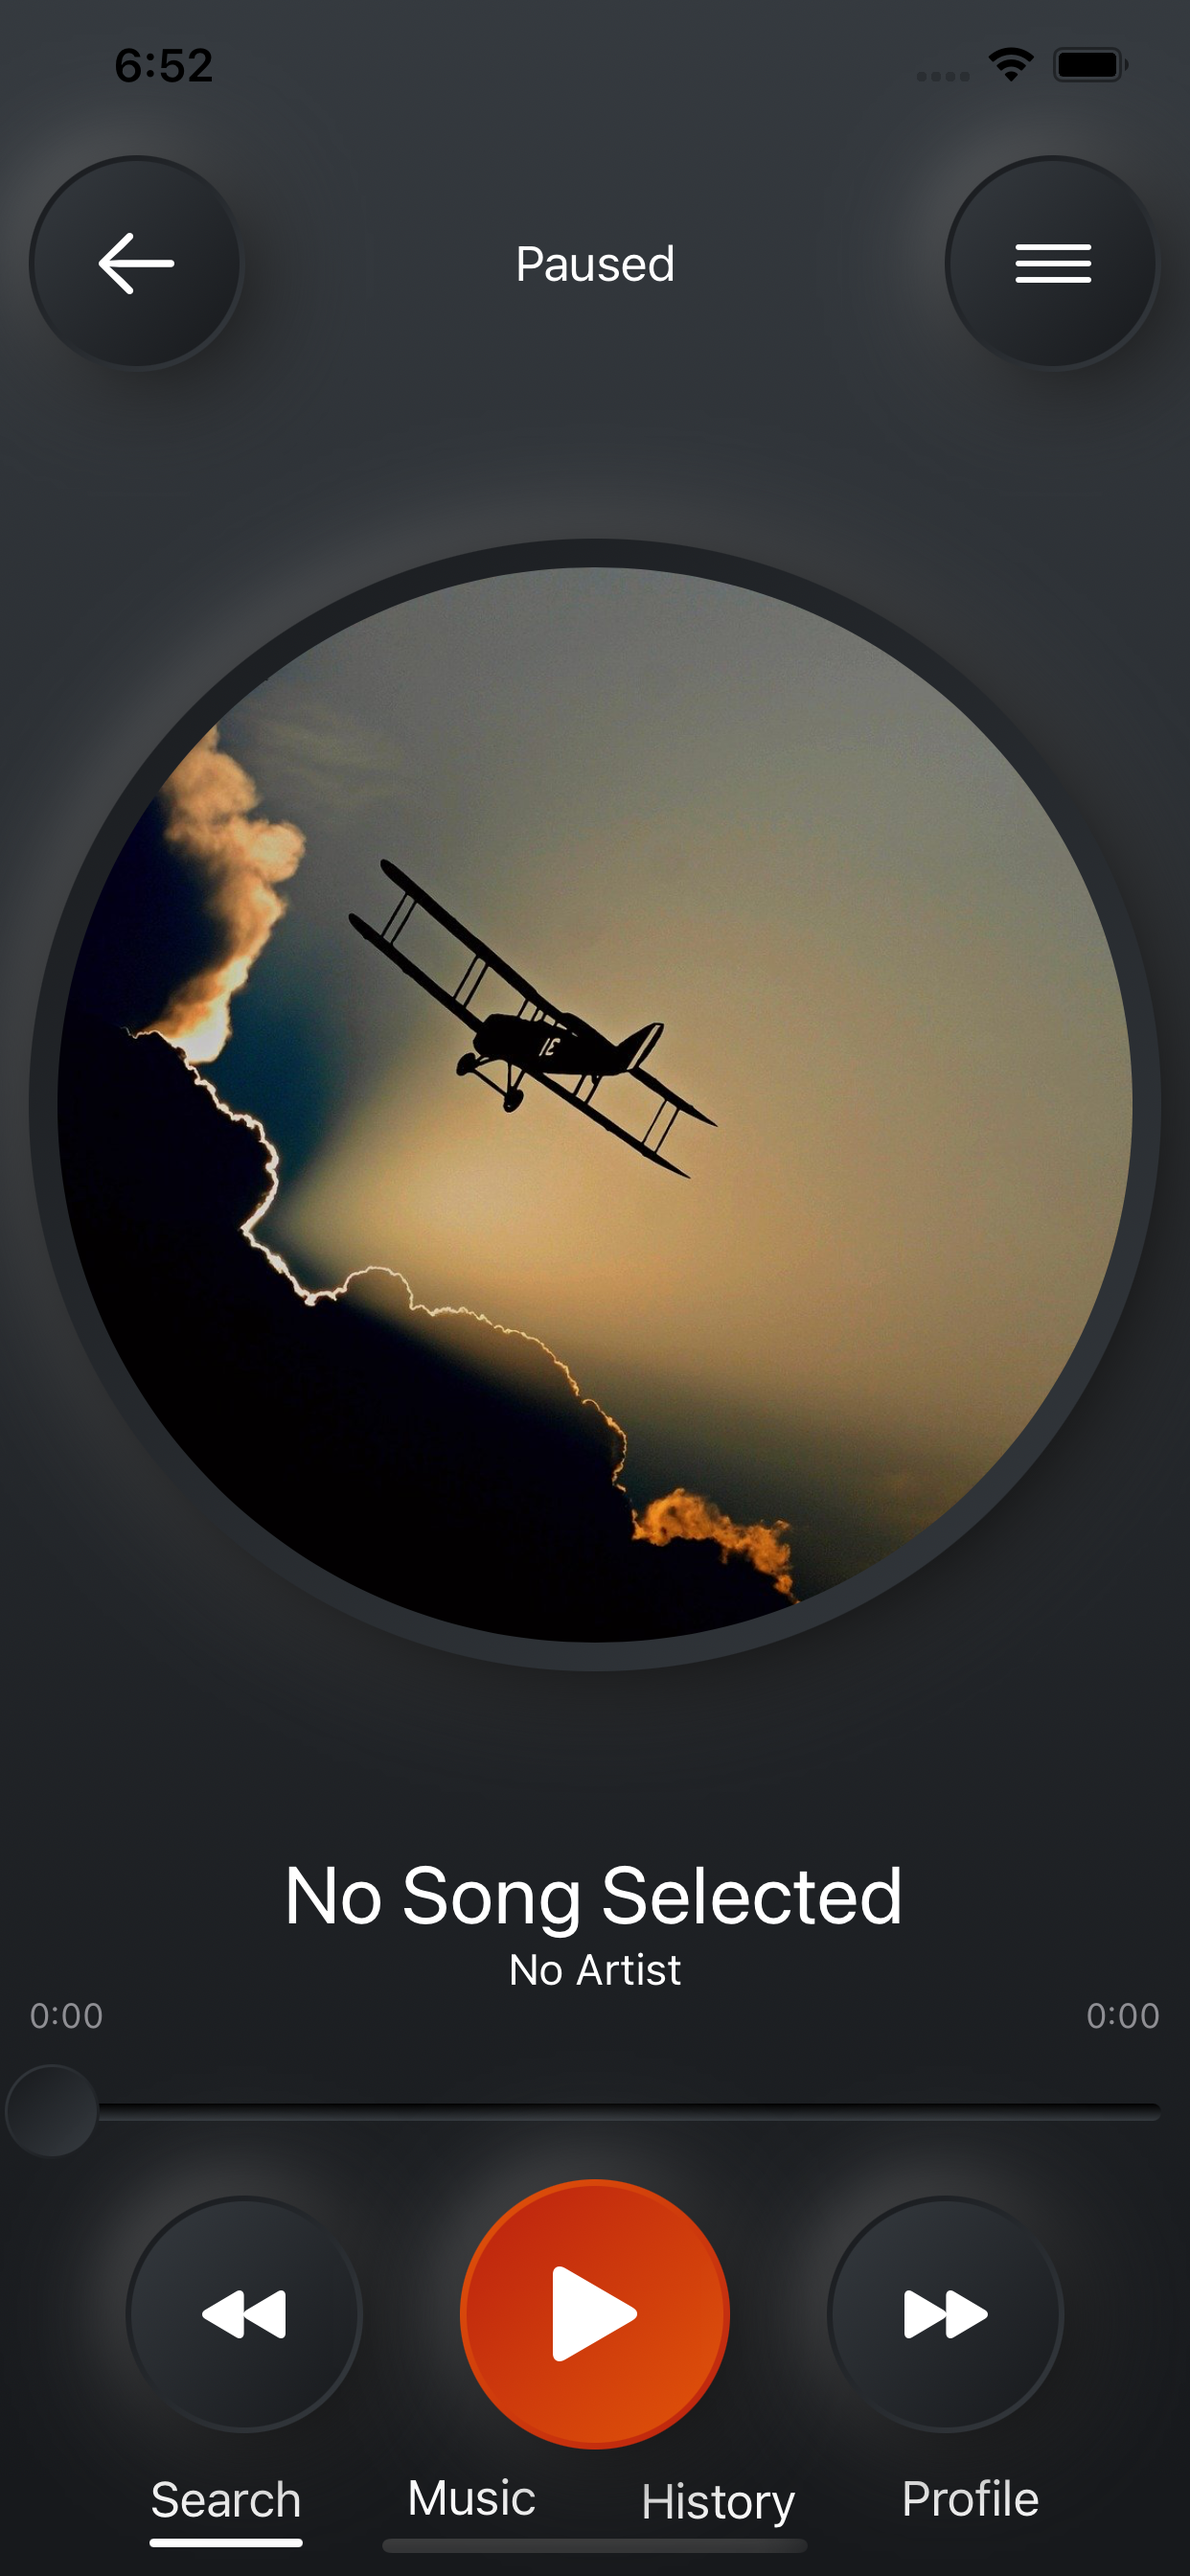
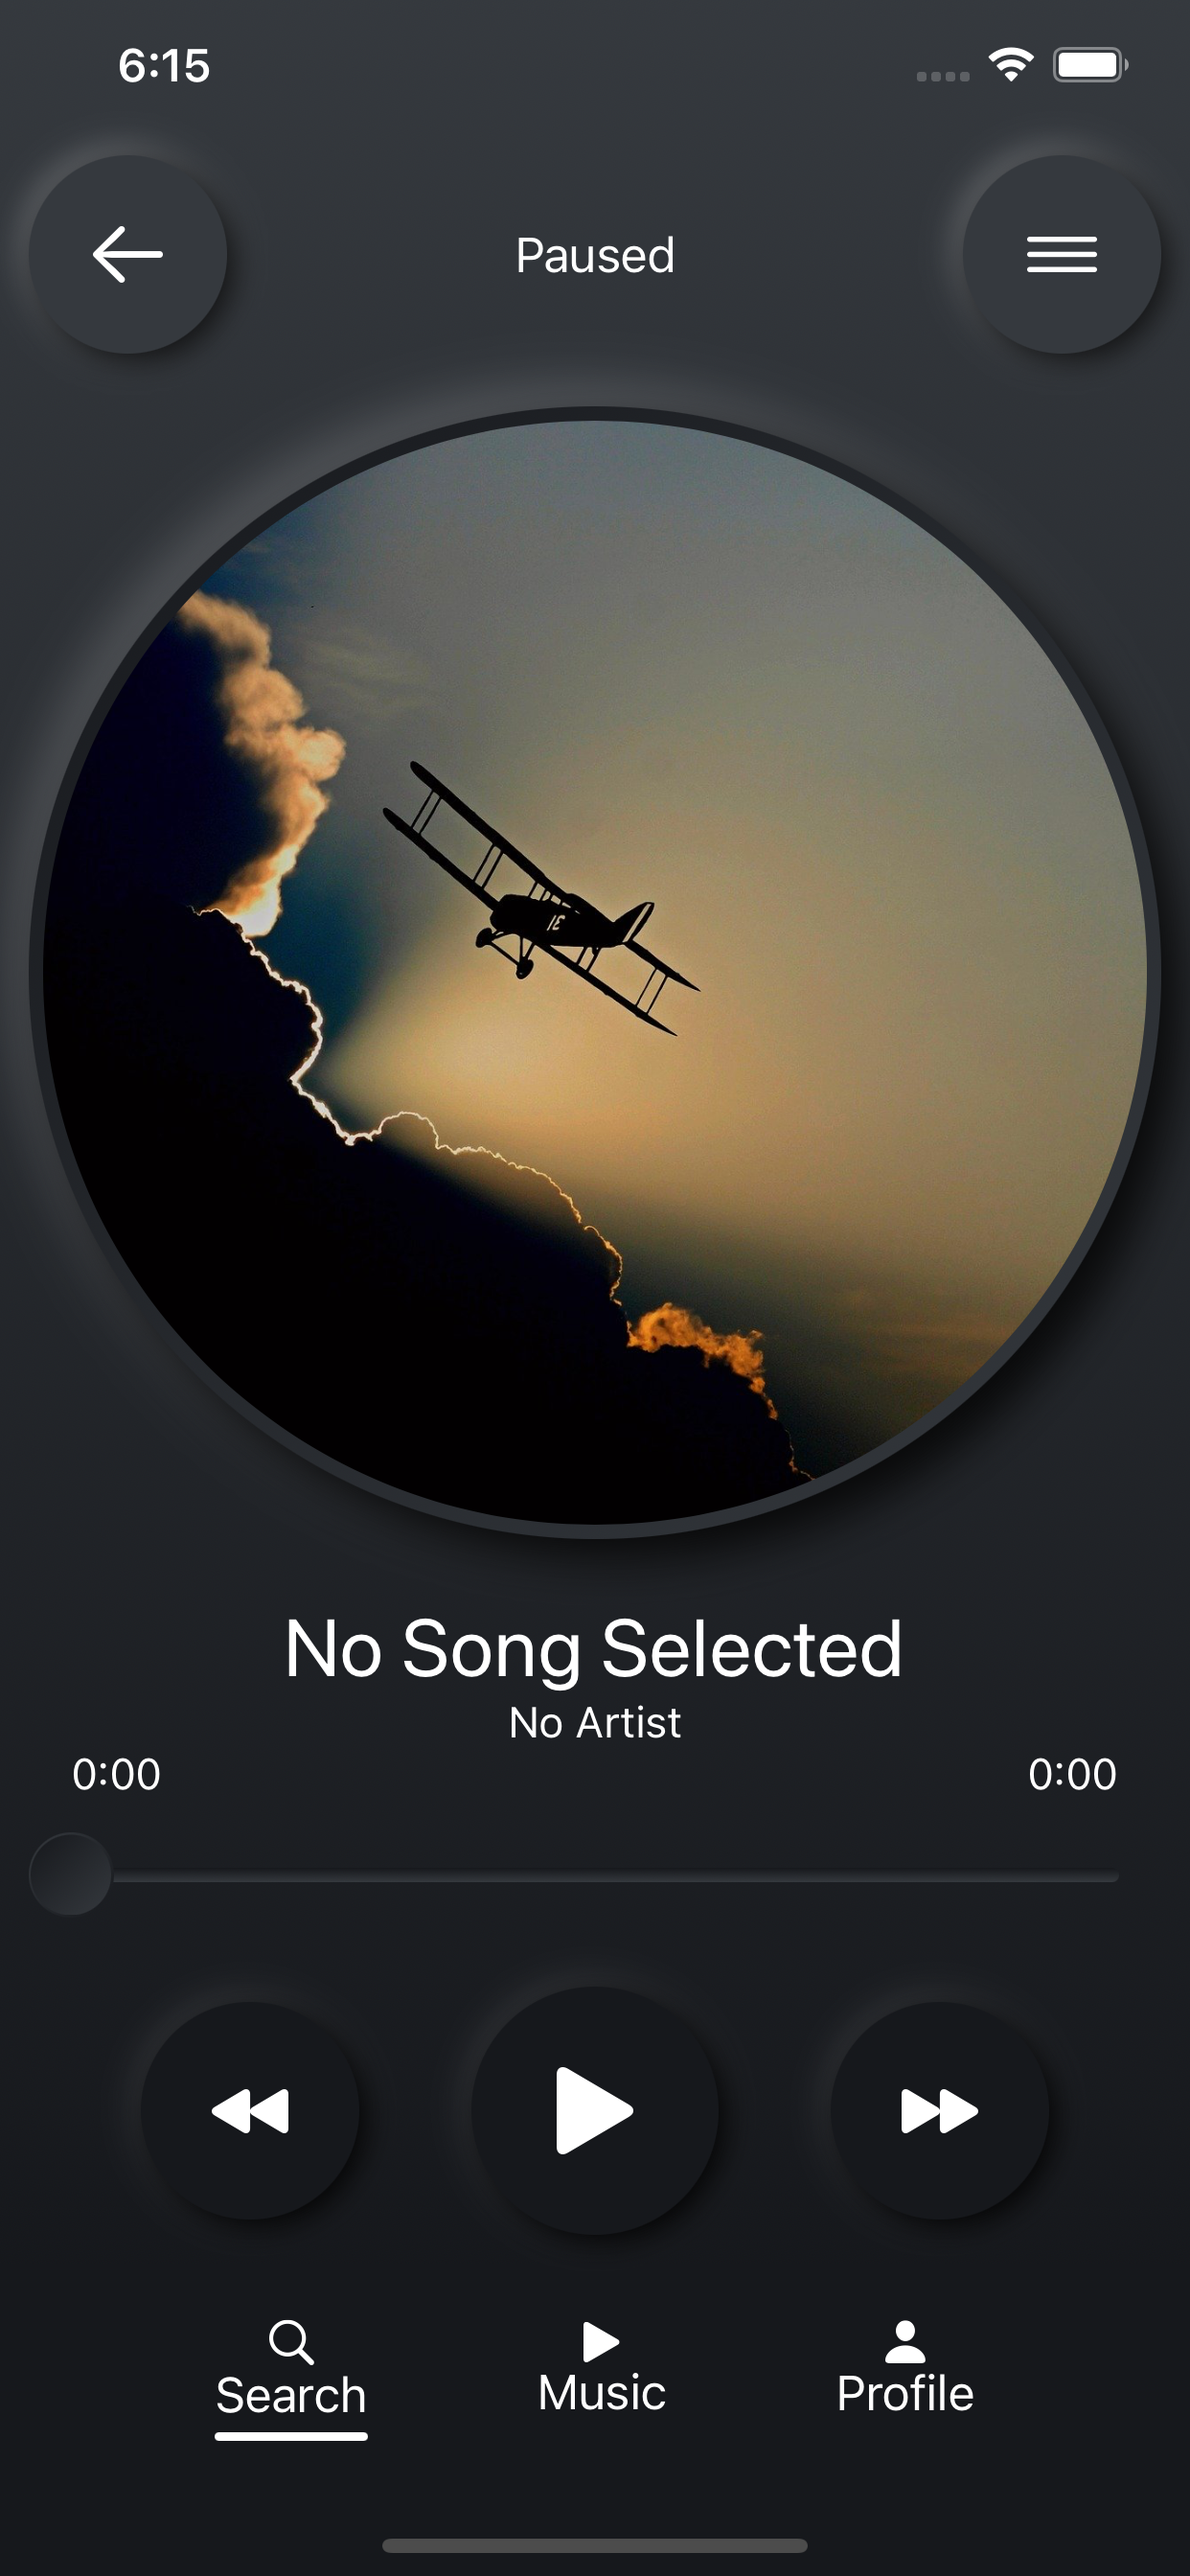
Add custom HostingController class to set status bar text color based on user selected textColor perceived brightness, set current and song total time text colors to textColor from the colorScheme. Add updated images of project

diff --git a/NeoMusic-SwiftUI/NeoMusic-SwiftUI/Resources/HostingController.swift b/NeoMusic-SwiftUI/NeoMusic-SwiftUI/Resources/HostingController.swift
@@ -1,0 +1,32 @@
+//
+//  HostingController.swift
+//  NeoMusic-SwiftUI
+//
+//  Created by Jordan Christensen on 10/13/20.
+//
+
+import SwiftUI
+
+class HostingController<Content>: UIHostingController<Content> where Content: View {
+    let prefersLightMode: Bool
+    
+    init(textColor: Color, rootView: Content) {
+        self.prefersLightMode = textColor.perceivedBrightness >= 0.5
+        
+        super.init(rootView: rootView)
+    }
+    
+    @objc required dynamic init?(coder aDecoder: NSCoder) {
+        self.prefersLightMode = true
+        
+        super.init(coder: aDecoder)
+    }
+    
+    override var preferredStatusBarStyle: UIStatusBarStyle {
+        if prefersLightMode {
+            return .lightContent
+        }
+        
+        return .darkContent
+    }
+}

diff --git a/NeoMusic-SwiftUI/NeoMusic-SwiftUI/Subviews/MusicSlider.swift b/NeoMusic-SwiftUI/NeoMusic-SwiftUI/Subviews/MusicSlider.swift
@@ -54,12 +54,14 @@ struct MusicSlider: View {
             HStack {
                 Text(format(currentTime))
                     .font(.subheadline)
+                    .foregroundColor(colorScheme.textColor.color)
                     .padding(.leading, sliderSize / 2)
                 
                 Spacer()
                 
                 Text(format(totalTime))
                     .font(.subheadline)
+                    .foregroundColor(colorScheme.textColor.color)
                     .padding(.trailing, sliderSize / 2)
             }
             .onReceive(timer) { _ in

diff --git a/NeoMusic-SwiftUI/NeoMusic-SwiftUI/Resources/SceneDelegate.swift b/NeoMusic-SwiftUI/NeoMusic-SwiftUI/Resources/SceneDelegate.swift
@@ -27,7 +27,7 @@ class SceneDelegate: UIResponder, UIWindowSceneDelegate {
         // Use a UIHostingController as window root view controller.
         if let windowScene = scene as? UIWindowScene {
             let window = UIWindow(windowScene: windowScene)
-            window.rootViewController = UIHostingController(rootView: contentView)
+            window.rootViewController = HostingController(textColor: setCon.colorScheme.textColor.color, rootView: contentView)
             self.window = window
             window.makeKeyAndVisible()
         }

diff --git a/NeoMusic-SwiftUI/NeoMusic-SwiftUI/Views/AppView.swift b/NeoMusic-SwiftUI/NeoMusic-SwiftUI/Views/AppView.swift
@@ -52,9 +52,9 @@ struct AppView: View {
                 }
                 .accentColor(settingsController.colorScheme.textColor.color)
                 
-//                MusicPlayer(isOpen: $musicPlayerIsOpen)
-//                    .frame(height: geometry.size.height - TabBar.height)
-//                    .offset(y: -TabBar.height / 2)
+                MusicPlayer(isOpen: $musicPlayerIsOpen)
+                    .frame(height: geometry.size.height - TabBar.height)
+                    .offset(y: -TabBar.height / 2)
             }
         }
     }
